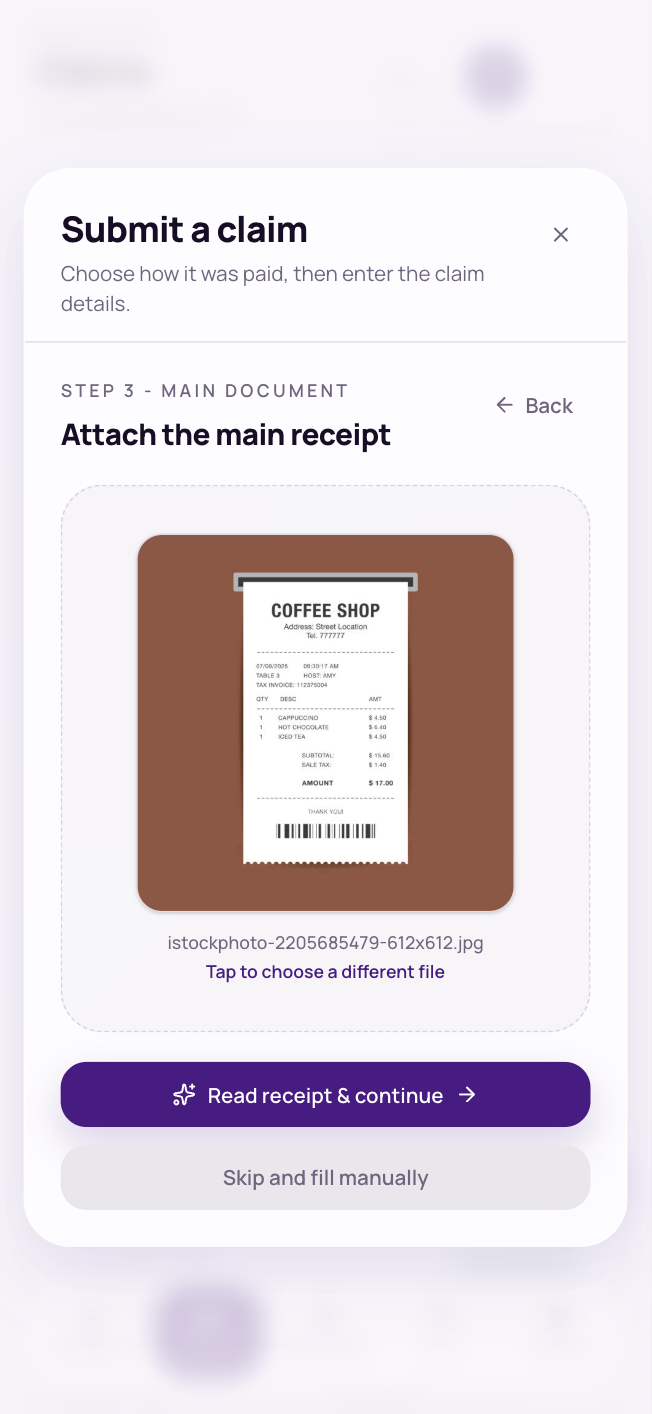
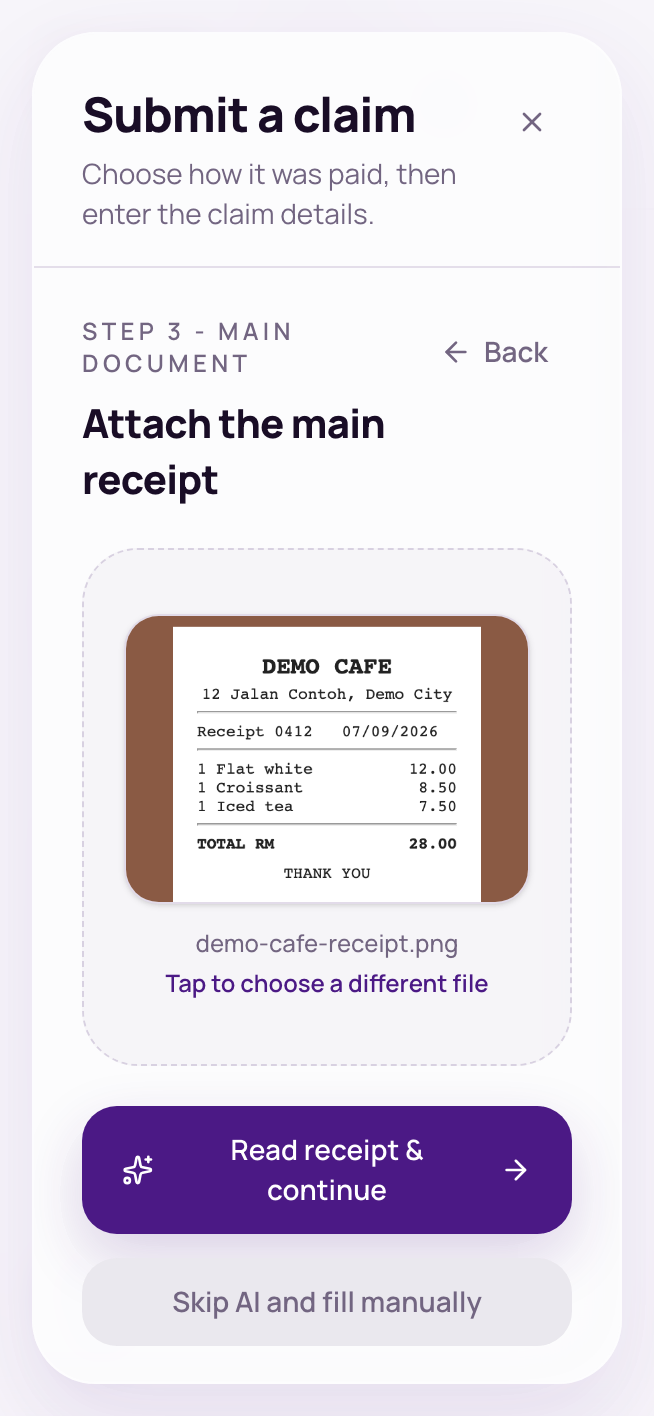
docs: what's new, API docs bookmark and guides for required receipts, supporting docs and payslip search

diff --git a/user-guide/altomatehr-employee-guide.html b/user-guide/altomatehr-employee-guide.html
@@ -7,7 +7,7 @@
   Bookmark: this page is correct as of this commit on main. The next update
   re-checks every user-visible change after it — from any branch — then
   moves it forward.
-  user-guide-covered-up-to: 1777eef
+  user-guide-covered-up-to: c8cb52b
 -->
 <html lang="en">
 <head>
@@ -705,8 +705,11 @@
       <li><h4>Who paid?</h4><p><strong>My own money</strong> (you'll be reimbursed) or <strong>Company money</strong>
         (a company card or account).</p></li>
       <li><h4>What kind?</h4><p><strong>Expense claim</strong> or <strong>Mileage claim</strong>.</p></li>
-      <li><h4>Upload the receipt</h4><p>For an expense, upload the main receipt and tap
-        <span class="btn-name">Read receipt &amp; continue</span>. The app reads it and fills in the details.</p></li>
+      <li><h4>Attach the main receipt</h4><p>For an expense, the main receipt is required. Attach it first — until you do,
+        both buttons stay greyed out. Then tap <span class="btn-name">Read receipt &amp; continue</span> and the app reads
+        it and fills in the details. Prefer to type them yourself? Tap
+        <span class="btn-name">Skip AI and fill manually</span>. That only skips the reading — your receipt is still
+        attached to the claim.</p></li>
       <li><h4>Check the details, then submit</h4><p><strong>Check every field — especially the amount.</strong> Then
         <span class="btn-name">Submit claim</span>.</p></li>
     </ol>
@@ -716,7 +719,10 @@
       <li><strong>Project</strong> — the site or job it belongs to.</li>
       <li><strong>Company bank account</strong> — for company money: which card or account paid.</li>
       <li><strong>Spending at</strong> — the shop or supplier (required for company money).</li>
-      <li><strong>Supporting documents</strong> — anything else, like an invoice.</li>
+      <li><strong>Supporting documents</strong> — anything else, like an invoice. Each time you tap
+        <span class="btn-name">Tap to add supporting documents</span> and choose files, they're added to the list, so
+        you can pick a few now and more later. Every file is listed with a ✕ button to remove it. A claim can have up
+        to 10; once you reach that, the button greys out.</li>
     </ul>
     <h3>Mileage claims</h3>
     <p>Enter the distance, the date, and where you went from and to. The amount is worked out from your company's
@@ -733,12 +739,16 @@
           <p class="shot-cap">Who paid?</p>
         </div>
         <div class="shot-item">
-          <img src="shots/employee/claim-receipt.png" alt="The receipt upload step with Read receipt &amp; continue" loading="lazy">
-          <p class="shot-cap">Reading the receipt</p>
+          <img src="shots/employee/claim-receipt.png" alt="The Attach the main receipt step with a receipt attached, and the Read receipt &amp; continue and Skip AI and fill manually buttons" loading="lazy">
+          <p class="shot-cap">Attach the main receipt</p>
         </div>
         <div class="shot-item">
           <img src="shots/employee/claim-details.png" alt="The final step, filled in from the receipt" loading="lazy">
           <p class="shot-cap">Claim details</p>
+        </div>
+        <div class="shot-item">
+          <img src="shots/employee/claim-supporting.png" alt="The claim details form with three supporting documents listed, each with a remove button, and Tap to add more" loading="lazy">
+          <p class="shot-cap">Supporting documents</p>
         </div>
       </div>
       <p class="shot-cap shot-cap-main">Submitting a claim</p>

diff --git a/user-guide/altomatehr-admin-guide.html b/user-guide/altomatehr-admin-guide.html
@@ -7,7 +7,7 @@
   Bookmark: this page is correct as of this commit on main. The next update
   re-checks every user-visible change after it — from any branch — then
   moves it forward.
-  user-guide-covered-up-to: 1777eef
+  user-guide-covered-up-to: c8cb52b
 -->
 <html lang="en">
 <head>
@@ -1160,6 +1160,11 @@
         <p><span class="btn-name">Send for approval</span>. The approver either presses
           <span class="btn-name">Approve and file</span>, or <span class="btn-name">Send back to draft</span> with a note.</p></li>
     </ol>
+    <p><strong>Finding someone in the run.</strong> Above the <strong>Payslips</strong> list is a search box,
+      <strong>Search name, employee ID, or job title</strong>. Type part of a name, an employee ID or a job title and the
+      list narrows to the people who match; clear the box to see everyone again. The search only changes which rows you
+      see — the <strong>Total</strong> row and <strong>What gets remitted</strong> still add up the whole run, and a
+      line under the box tells you how many are shown.</p>
     <div class="note warn"><span class="nt">“Run payroll again before submitting”</span>
       <p>If something a draft uses changes after payroll was run, the run is marked <strong>Stale</strong> and can't
         be sent for approval until you press <span class="btn-name">Re-run payroll</span>. That happens when any of
@@ -1196,6 +1201,10 @@
         <div class="shot-item">
           <img src="shots/admin/payroll-adjustments.png" alt="The adjustments drawer for one employee: working hours, overtime and one-off line items" loading="lazy">
           <p class="shot-cap">Adjustments drawer</p>
+        </div>
+        <div class="shot-item">
+          <img src="shots/admin/payroll-payslips-search.png" alt="A run's Payslips list narrowed by the search box to one person, with the Total row still showing all 9 employees" loading="lazy">
+          <p class="shot-cap">Searching a run's payslips</p>
         </div>
       </div>
       <p class="shot-cap shot-cap-main">A payroll run</p>

diff --git a/frontend/src/features/whats-new/lib/entries.ts b/frontend/src/features/whats-new/lib/entries.ts
@@ -8,7 +8,7 @@
 //
 // Bookmark: the last commit on main these notes already cover. The next update
 // writes up everything after it — from any branch — then moves it forward.
-// whats-new-covered-up-to: 1777eef
+// whats-new-covered-up-to: c8cb52b
 
 export type WhatsNewEntry = {
   /** Release day, yyyy-MM-dd (Malaysia time). Also what "unread" compares. */
@@ -25,6 +25,13 @@ export const WHATS_NEW: WhatsNewEntry[] = [
     date: "2026-10-13",
     new: [
       "Admins: Settings → Organization → Company logo: upload a PNG, JPG or WebP image up to 2 MB, then replace or remove it (needs the Change settings permission). It prints at the top left of letters generated from Documents from now on; letters already saved keep their old look.",
+      "Payroll → a run's Payslips: search by name, employee ID or job title. The totals under the table still add up the whole run.",
+    ],
+    improved: [
+      "Claims → New claim (expense): the main receipt is now required before you continue. \"Skip AI and fill manually\" (was \"Skip and fill manually\") skips only the AI reading, and the receipt is still attached. When editing, a receipt can be replaced but not removed; older claims without one can still be edited.",
+    ],
+    fixed: [
+      "Claims → New claim → Supporting documents: a second pick no longer replaces the first. Files add up (up to 10 per claim, counting any already on a claim you're editing), and each one has a remove button.",
     ],
   },
   {

diff --git a/api-docs/index.html b/api-docs/index.html
@@ -25,7 +25,7 @@
   Bookmark: the pages that exist are correct as of this commit on main. The
   next update re-checks every controller/DTO changed after it — from any
   branch — then moves it forward.
-  api-docs-covered-up-to: 1777eef
+  api-docs-covered-up-to: c8cb52b
 -->
 <div class="layout">
   <nav class="sidebar" aria-label="Documentation">
